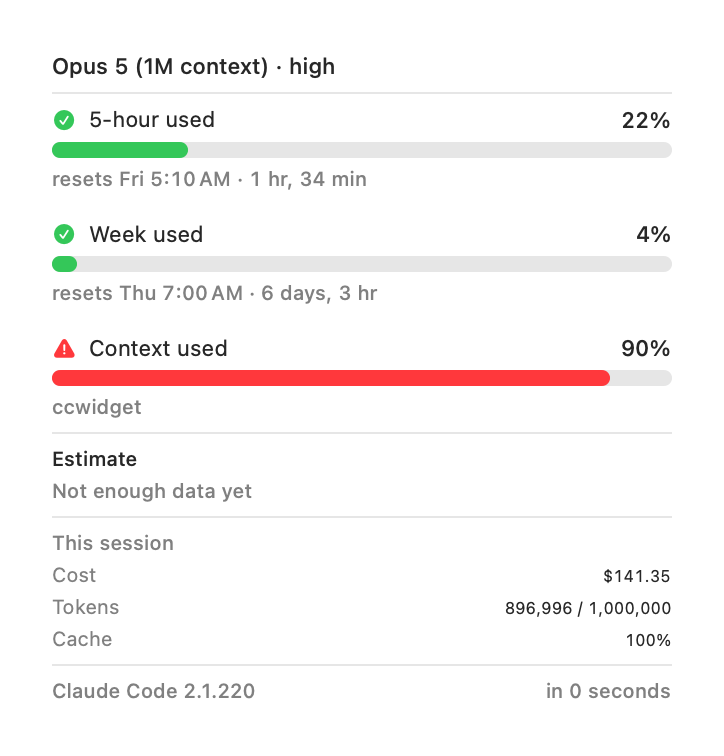
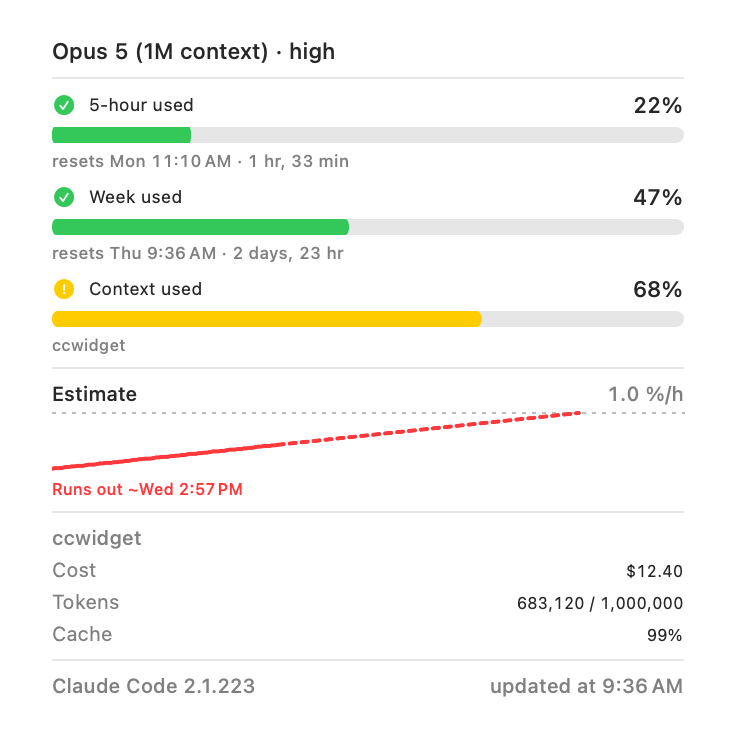
Re-shoot the README from a fixture instead of somebody's account
The six pictures were live renders, which meant a public README carrying a real
session cost of $141.35, real weekly usage, and — because they were taken just
after a weekly reset — the Estimate block reading "Not enough data yet". The one
thing this widget does that others do not, photographed at its least convincing.

Scripts/readme-screenshots.sh writes a fixture and shoots against it in one
command. Forty hours of history rising a point an hour, so the estimate can do
what it is for: name a rate and a date, with the chart and the projection drawn.

The fixture is generated at shoot time rather than committed, and the first
attempt is why. A committed fixture dated 2023 rendered "resets Tue 11:47 PM ·
2 yrs, 9 mths": the countdown in a row is a dynamic date, drawn by the system
from the real clock and not from the moment the entry carries. RowCompositionTests
documents that trap at the top of its file, and I walked into it anyway. The
fixture has to be relative to now, which makes it a generator and not a file.

The renderer also pins the time zone now, next to where it already pinned the
moment. A fixture with a moving zone is exactly as unreproducible as live data,
and this project has already paid for that lesson once — chart-runs-out.png had
Asia/Tashkent baked into it and failed on the first CI run of its life.

All six looked at before committing, both appearances and all three sizes.

Changed region(s): [[0.0608, 0.0625, 0.942, 0.5625], [0.0608, 0.5625, 0.942, 0.9688]]

diff --git a/Tools/ccwidget-screenshots/main.swift b/Tools/ccwidget-screenshots/main.swift
@@ -69,6 +69,25 @@ let now: Date = {
     return Date(timeIntervalSince1970: seconds)
 }()
 
+/// The zone everything is rendered in.
+///
+/// Pinned alongside the fixture and the moment, for the reason the two of them
+/// are pinned: a reset that prints "Fri 5:10 AM" here and "Fri 12:10 AM"
+/// somewhere else is not a reproducible picture. This was missed once already
+/// and cost a red build — `chart-runs-out.png` had a time zone baked into it,
+/// and the check that compared it failed the first time it ran on another
+/// machine. See Docs/rendering-checks.md, "Step 0, answered".
+let renderZone: TimeZone = {
+    if let index = arguments.firstIndex(of: "--time-zone"), index + 1 < arguments.count,
+       let zone = TimeZone(identifier: arguments[index + 1]) {
+        return zone
+    }
+    // Live shots follow the machine, because they are a picture of that
+    // machine. A fixture is a picture of nothing in particular and gets UTC.
+    return fixture == nil ? .current : TimeZone(identifier: "UTC")!
+}()
+NSTimeZone.default = renderZone
+
 let store = fixture.map { SnapshotStore(containerURL: $0) } ?? SnapshotStore.default()
 let snapshot = try? store.load()
 let history = HistoryStore(store: store).load()
@@ -128,6 +147,10 @@ func shoot(_ name: String, _ size: CGSize, _ scheme: ColorScheme, @ViewBuilder _
         .clipShape(RoundedRectangle(cornerRadius: cornerRadius, style: .continuous))
         .environment(\.colorScheme, scheme)
         .environment(\.dynamicTypeSize, typeSize)
+        // Explicitly, as well as through the process default above: the views
+        // read the zone from the environment, and what a check can set is what
+        // a check can trust.
+        .environment(\.timeZone, renderZone)
         // Margin around it: a rounded corner must not touch the image edge.
         .padding(12)
 

diff --git a/CHANGELOG.md b/CHANGELOG.md
@@ -7,6 +7,23 @@ and this project adheres to [Semantic Versioning](https://semver.org/spec/v2.0.0
 
 ## [Unreleased]
 
+### Changed
+
+- **The README screenshots are rendered from a fixture, not from a live
+  account.** They used to be whatever the developer's afternoon looked like:
+  a real session cost of $141.35 in a public README, real usage percentages,
+  and the Estimate block reading *Not enough data yet* because the shots were
+  taken just after a weekly reset — the one distinctive thing this widget does,
+  photographed at its least convincing.
+
+  `./Scripts/readme-screenshots.sh` writes a fixture and shoots against it in
+  one command. The fixture is generated at shoot time rather than committed,
+  because a row's countdown is a dynamic date drawn from the real clock: fixed
+  timestamps render "2 yrs, 9 mths", which is the trap `RowCompositionTests`
+  documents and which this walked into on the first attempt. The renderer now
+  pins the time zone alongside the moment, so the pictures do not carry a city
+  in them either.
+
 ### Fixed
 
 - **Upgrading the app left the old exporter running, and nothing said so.**
@@ -102,13 +119,6 @@ would be claiming a state that already has a mark.
 
 ### Known gaps
 
-- **Screenshots were taken right after a weekly reset**, so the Estimate block
-  reads *Not enough data yet* — the fit quality is below threshold that soon
-  after the counter drops. The behaviour is correct and the wording is honest,
-  but it shows the project's one distinctive feature at its least convincing.
-  Re-shoot once a couple of days of history have accumulated and the estimate
-  reports a rate with a date:
-  `./.build/ccwidget-screenshots Docs/screenshots -AppleLocale en_US -AppleLanguages "(en)"`
 - **Code comments and SPEC.md are in Russian.** Comments are being translated;
   the specification follows later.
 - **Larger text has no effect anywhere in this app.** macOS offers no route to
